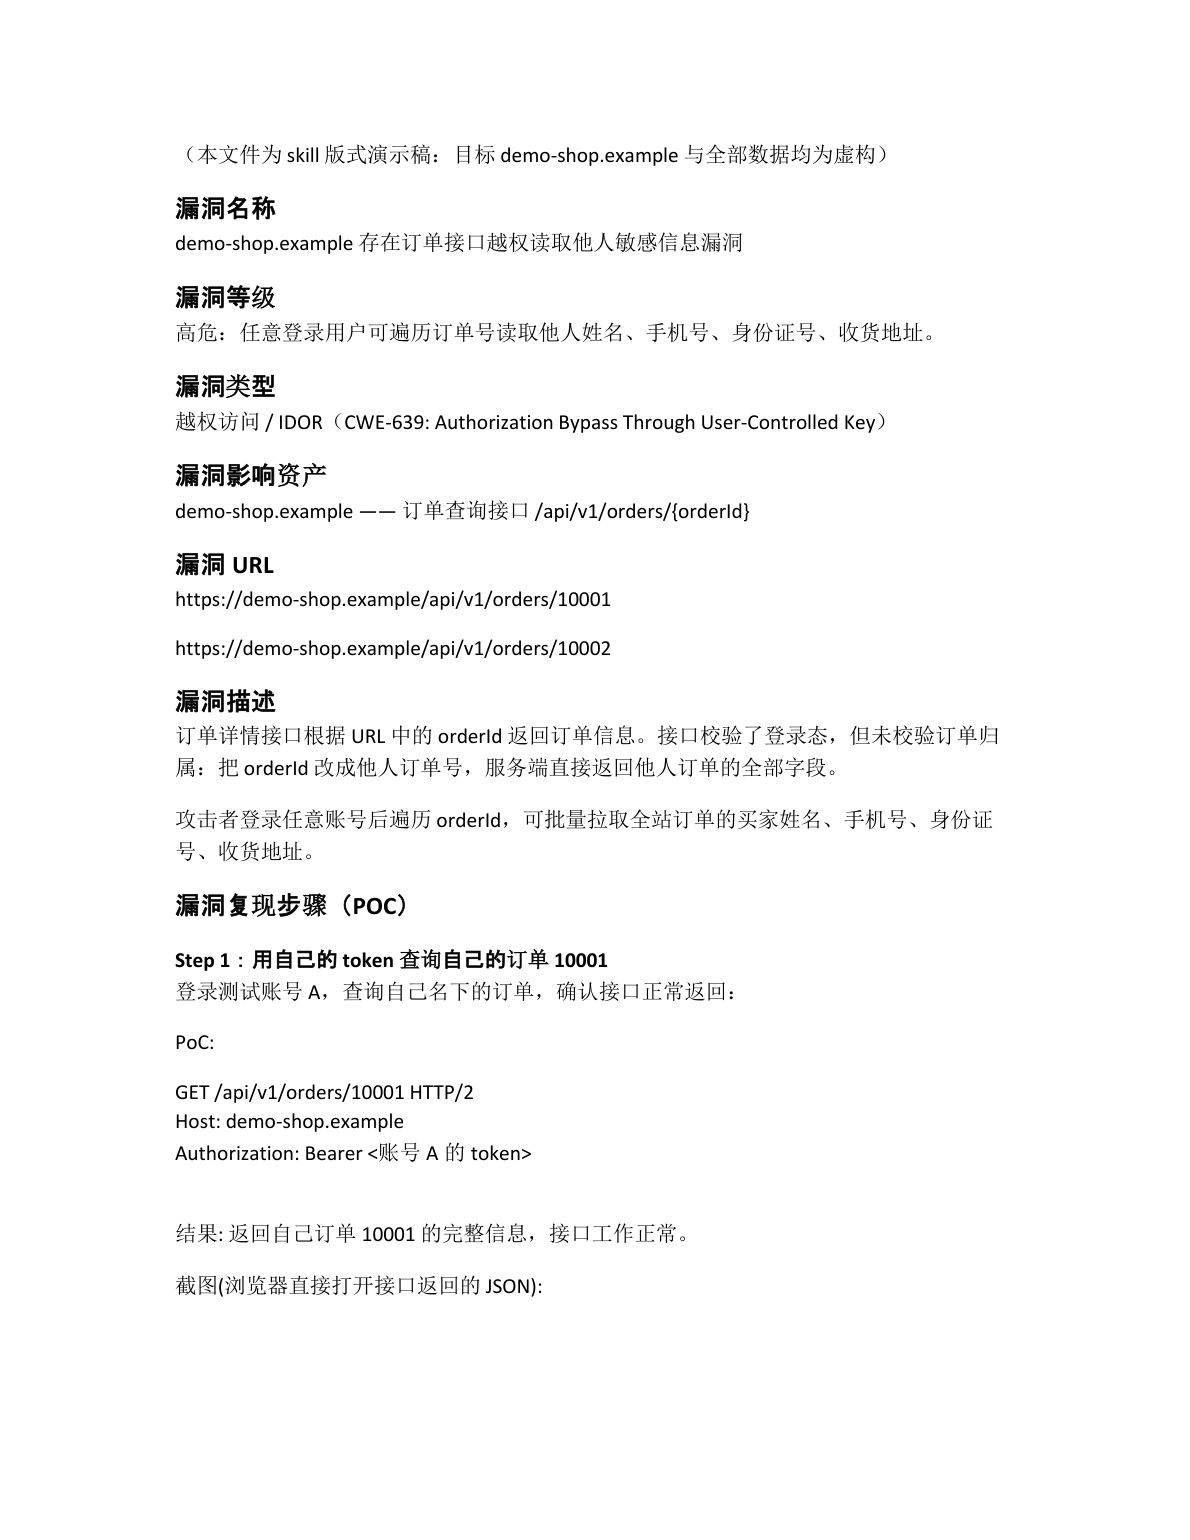
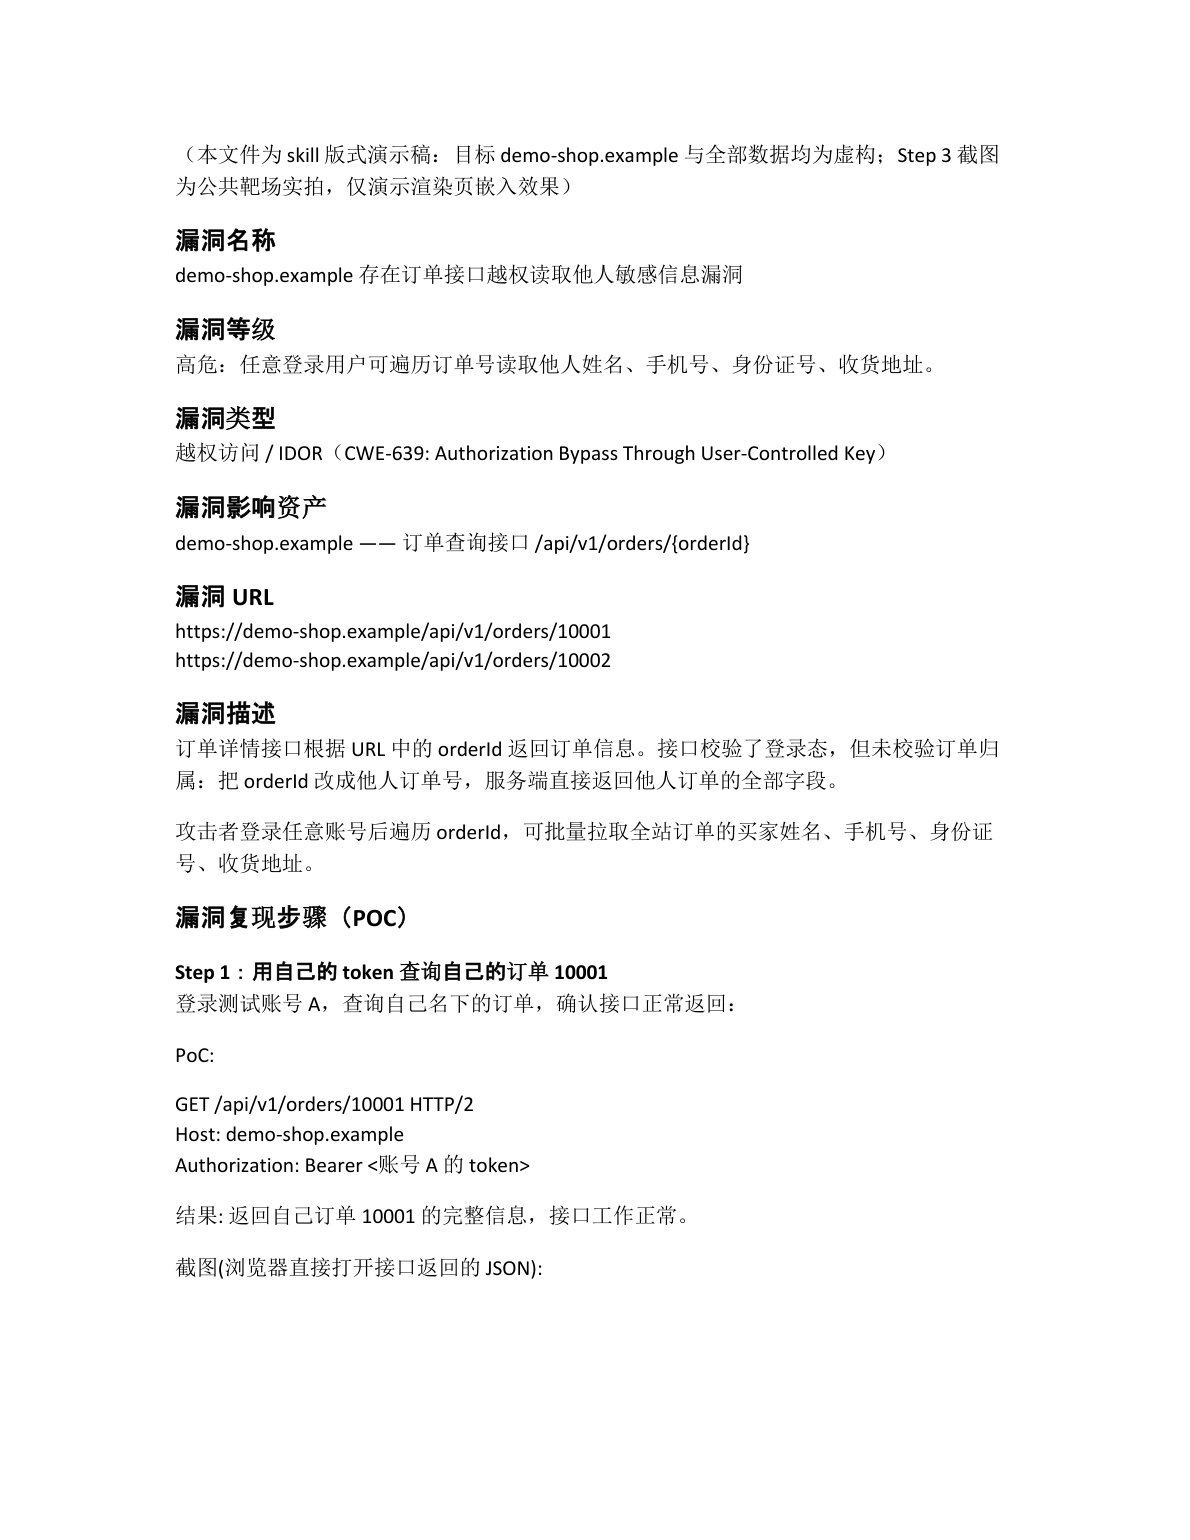
Add real browser-rendered capture (public practice target) to demo preview

diff --git a/README.md b/README.md
@@ -22,12 +22,12 @@ flowchart TD
 
 ## 效果预览 / Demo
 
-> 演示对象为虚构靶标 `demo-shop.example`，仅展示生成报告的版式与结构。
-> Demo uses a fictional target to showcase the layout of generated reports.
+> 演示对象为虚构靶标 `demo-shop.example`，仅展示生成报告的版式与结构；第 3 张为公共靶场（AltoroJ / demo.testfire.net）实拍，演示真实浏览器渲染页的嵌入效果。
+> Demo uses a fictional target to showcase the layout of generated reports; page 3 is a real browser capture from a public practice target, showing how rendered pages are embedded.
 
-| 报告首页（章节骨架） | PoC 步骤页（Step + 请求块 + 截图） |
-|---|---|
-| ![demo page 1](docs/demo-1.png) | ![demo page 2](docs/demo-2.png) |
+| 报告首页（章节骨架） | PoC 步骤页（Step + 请求块 + JSON 截图） | PoC 步骤页（真实浏览器渲染截图） |
+|---|---|---|
+| ![demo page 1](docs/demo-1.png) | ![demo page 2](docs/demo-2.png) | ![demo page 3](docs/demo-3.png) |
 
 ---
 
